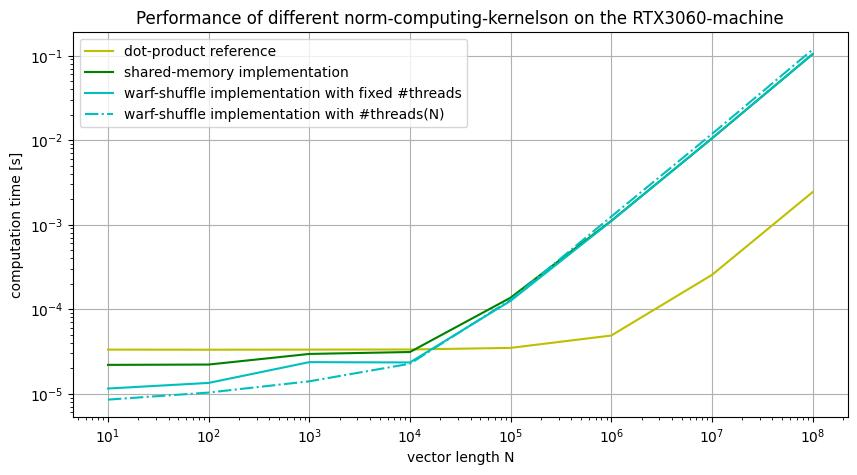
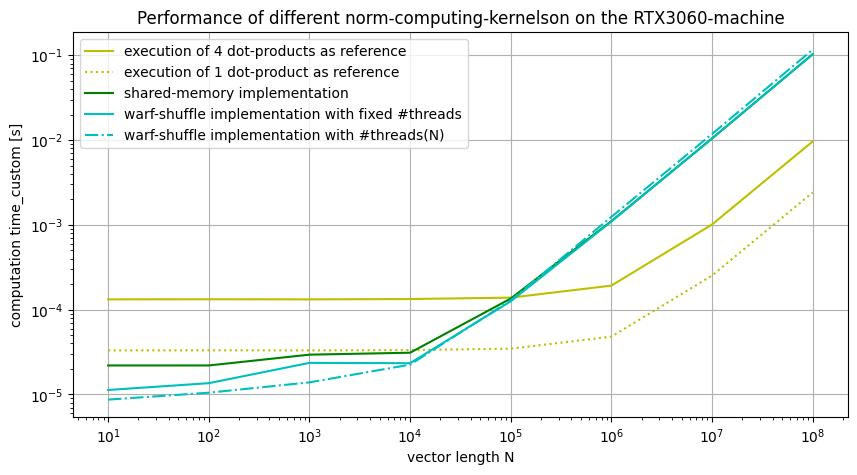
only result check missing

diff --git a/a4/plot.py b/a4/plot.py
@@ -3,12 +3,12 @@ import numpy as np
 import pandas as pd
 from matplotlib import cm
 
+
 # files
 filepath1 = "data/ex1.txt"
 data_ex1 = np.genfromtxt(filepath1, dtype=float, delimiter=' ')
 
-# filepath2 = "data/ex2.txt"
-# data_ex1 = np.genfromtxt(filepath2, dtype=float, delimiter=' ')
+
 # filepath3 = "data/dense_matrix_GB_k40.txt"
 # data_dense= np.genfromtxt(filepath3, dtype=float, delimiter=' ')
 
@@ -16,6 +16,7 @@ data_ex1 = np.genfromtxt(filepath1, dtype=float, delimiter=' ')
 # plot1 - dot product
 N = []
 t_dot_product = []
+t_4dot_product =[]
 t_shared_mem = []
 t_ws_fixed = []
 t_ws_elastix = []
@@ -31,55 +32,90 @@ for i in range(len(data_ex1)):
                       [i][3])
     t_ws_elastix.append(data_ex1
                         [i][4])
+for i in range(len(t_dot_product)):
+    t_4dot_product.append(4*t_dot_product[i])
 
 plt.figure(figsize=(10, 5))
-plt.plot(N, t_dot_product, label="dot-product reference", color='y')
+plt.plot(N, t_4dot_product,
+         label="execution of 4 dot-products as reference", color='y')
+plt.plot(N, t_dot_product,
+         label="execution of 1 dot-product as reference", color='y', linestyle='dotted')
 plt.plot(N, t_ws_fixed,
          label="shared-memory implementation", color='g')
 plt.plot(N, t_shared_mem,
          label="warf-shuffle implementation with fixed #threads", color='c')
 plt.plot(N, t_ws_elastix, label="warf-shuffle implementation with #threads(N)",
          color='c', linestyle='dashdot')
-#plt.plot(k, data , label = "time")
+#plt.plot(k, data , label = "time_custom")
 plt.xscale('log', base=10)
 plt.yscale('log', base=10)
 plt.xlabel("vector length N")
-plt.ylabel("computation time [s]")
+plt.ylabel("computation time_custom [s]")
 plt.legend()
 plt.title(
-    "Performance of different norm-computing-kernelson on the RTX3060-machine")
+    "Performance of different norm-computing-kernels on the RTX3060-machine")
 plt.grid()
 plt.savefig("plots/ex1.jpg", bbox_inches='tight')
 
-# # plot2b - dense matrix
+
+
+# filepath2 = "data/ex2.txt"
+# data_ex2 = np.genfromtxt(filepath2, dtype=float, delimiter=' ')
+
+# # plots ex2
 # N = []
-# t_dot_product = []
-# t_shared_mem = []
-# t_ws_fixed   = []
-# t_ws_elastix = []
+# K = []
+# time_custom = []
+# time_cublas = []
+# for i in range(len(data_ex2)):
+#     N.append(data_ex2[i][0])
+#     K.append(data_ex2[i][1])
+#     time_custom.append(data_ex2[i][2])
+#     time_cublas.append(data_ex2[i][3])
+# # custom plot
+# dx = 100*np.ones(len(data_ex2))
+# dy = 100*np.ones(len(data_ex2))
+# dz = time_custom
 
-# for i in range(len(data_dense_matrix_GB_rtx3060)):
-#     N.append(data_dense_matrix_GB_rtx3060[i][0])
-#     t_dot_product.append(data_dense_matrix_GB_rtx3060[i][1])
-#     t_shared_mem.append(data_dense_matrix_GB_rtx3060[i][2])
-#     t_ws_fixed  .append(data_dense_matrix_GB_rtx3060[i][3])
-#     t_ws_elastix.append(data_dense_matrix_GB_rtx3060[i][4])
+# cmap = cm.get_cmap('jet')  # Get desired colormap - you can change this!
+# max_height = np.max(dz)   # get range of colorbars so we can normalize
+# min_height = np.min(dz)
+# # scale each z to [0,1], and get their rgb values
+# rgba = [cmap((k-min_height)/max_height) for k in dz]
 
-# plt.figure(figsize=(10, 5))
-# plt.plot(N, t_dot_product, label="bandwidth for my vanilla transformation", color='g')
-# plt.plot(N, t_ws_fixed  ,
-#          label="bandwidth for the read-write-optimal transformation", color='g', linestyle='dotted')
-# plt.plot(N, t_shared_mem,
-#          label="bandwidth for my vanilla in-place-transformation", color='c')
-# plt.plot(N, t_ws_elastix, label="bandwidth for read-write-optimal in-place-transformation",
-#          color='c', linestyle='dotted')
-# #plt.plot(k, data , label = "time")
-# #plt.xscale('log', base=10)
-# #plt.yscale('log', base=2)
-# plt.xlabel("N")
-# plt.ylabel("bandwidth [GB/s]")
-# plt.legend()
+# fig = plt.figure(figsize=(10, 5))
+# ax = fig.add_subplot(111, projection="3d")
+# ax.bar3d(N, K, np.zeros(len(data_ex2)), dx, dy, dz, color=rgba)
+
+# ax.set_zlabel("time_custom")
+# ax.set_ylabel("N")
+# ax.set_xlabel("K")
+# # plt.legend()
 # plt.title(
-#     "Performance of different algorithms for matrix transformation on the RTX3060-machine")
-# plt.grid()
-# plt.savefig("plots/dense_matrix_rtx.jpg", bbox_inches='tight')
+#     "custom implementation for K dot products <x,v_i> for i{0,..,K} and len(x)=len(v_i) = N")
+# # plt.grid()
+# plt.savefig("plots/ex2_custom.jpg", bbox_inches='tight')
+
+# # cublas plot
+# dx = 100*np.ones(len(data_ex2))
+# dy = 100*np.ones(len(data_ex2))
+# dz = time_cublas
+
+# cmap = cm.get_cmap('jet')  # Get desired colormap - you can change this!
+# max_height = np.max(dz)   # get range of colorbars so we can normalize
+# min_height = np.min(dz)
+# # scale each z to [0,1], and get their rgb values
+# rgba = [cmap((k-min_height)/max_height) for k in dz]
+
+# fig = plt.figure(figsize=(10, 5))
+# ax = fig.add_subplot(111, projection="3d")
+# ax.bar3d(N, K, np.zeros(len(data_ex2)), dx, dy, dz, color=rgba)
+
+# ax.set_zlabel("time_cublas")
+# ax.set_ylabel("N")
+# ax.set_xlabel("K")
+# # plt.legend()
+# plt.title(
+#     "cublas implementation for K dot products <x,v_i> for i{0,..,K} and len(x)=len(v_i) = N")
+# # plt.grid()
+# plt.savefig("plots/ex2_cublas.jpg", bbox_inches='tight')

diff --git a/a4/ex2.cpp b/a4/ex2.cpp
@@ -7,12 +7,11 @@
 #include <cmath>
 #include <iostream>
 #include <stdlib.h>
-#include <iostream>
 #include <vector>
 #include <numeric>
 
 // a) implements 8 dot-product operations in one
-__global__ void cuda_mdot_product(int N, double *x, double *y, double *results)
+__global__ void cuda_8dot_product(int N, double *x, double *y, double *results)
 {
     __shared__ double shared_mem1[256]; // remember to only use 256 threads per block then!
     __shared__ double shared_mem2[256];
@@ -83,7 +82,7 @@ void multiple_batches(int N, int K, double *x, double **y, double **results)
     int h = K / 8;
     for (; h > 0; h--)
     {
-        cuda_mdot_product<<<256, 256>>>(N, x, y[h - 1], results[h - 1]);
+        cuda_8dot_product<<<256, 256>>>(N, x, y[h - 1], results[h - 1]);
     }
 }
 
@@ -97,29 +96,29 @@ float build_av(std::vector<float> log_vec)
 
 int main(void)
 {
-    // Initialize CUBLAS:
-    cublasHandle_t h;
-    cublasCreate(&h);
-
     // outer loop over vector lengths
     for (int N = 1000; N < 1000001; N *= 10)
     {
         // inner loop over number of dot-products
         for (size_t K = 8; K < 33; K += 8)
         {
+            // Initialize CUBLAS:
+            cublasHandle_t h;
+            cublasCreate(&h);
+            
             // allocate host memory:
             double *x = (double *)malloc(sizeof(double) * N);
             double *results = (double *)malloc(sizeof(double) * K);
             double *results_cublas = (double *)malloc(sizeof(double) * K);
-            double **v = (double **)malloc(sizeof(double *) * K / 8);
-            for (size_t i = 0; i < K / 8; ++i)
-            {
-                v[i] = (double *)malloc(sizeof(double) * N * 8);
-            }
             double **results3 = (double **)malloc(sizeof(double) * K / 8);
             for (size_t i = 0; i < K / 8; ++i)
             {
                 results3[i] = (double *)malloc(sizeof(double) * 8);
+            }
+            double **v = (double **)malloc(sizeof(double *) * K / 8);
+            for (size_t i = 0; i < K / 8; ++i)
+            {
+                v[i] = (double *)malloc(sizeof(double) * N * 8);
             }
             double **cublas_v = (double **)malloc(sizeof(double *) * K);
             for (size_t i = 0; i < K; ++i)
@@ -200,7 +199,7 @@ int main(void)
                 timer.reset();
                 for (size_t l = 0; l < K; ++l)
                 {
-                    cublasDdot(h, N, cuda_x, 1, cuda_cublas_v[l], 1, results_cublas + l);
+                    //cublasDdot(h, N, cuda_x, 1, cuda_cublas_v[l], 1, results_cublas + l);
                 }
                 CUDA_ERRCHK(cudaDeviceSynchronize());
                 float elapsed_time_1 = timer.get();
@@ -260,8 +259,9 @@ int main(void)
             cudaFree(cuda_v);
             cudaFree(cuda_results3);
             cudaFree(cuda_cublas_v);
+
+            cublasDestroy(h);
         }
     }
-    cublasDestroy(h);
     return EXIT_SUCCESS;
 }

diff --git a/a4/ex1.cpp b/a4/ex1.cpp
@@ -135,7 +135,7 @@ float build_av(std::vector<float> log_vec)
 int main(void)
 {
   // outer loop over vector lengths
-  for (int N = 10; N < 10^8; N *= 10) // benchmarking
+  for (int N = 10; N < 10 ^ 8; N *= 10) // benchmarking
   // for (int N = 32; N < 33; N += 2) // test
   {
 
